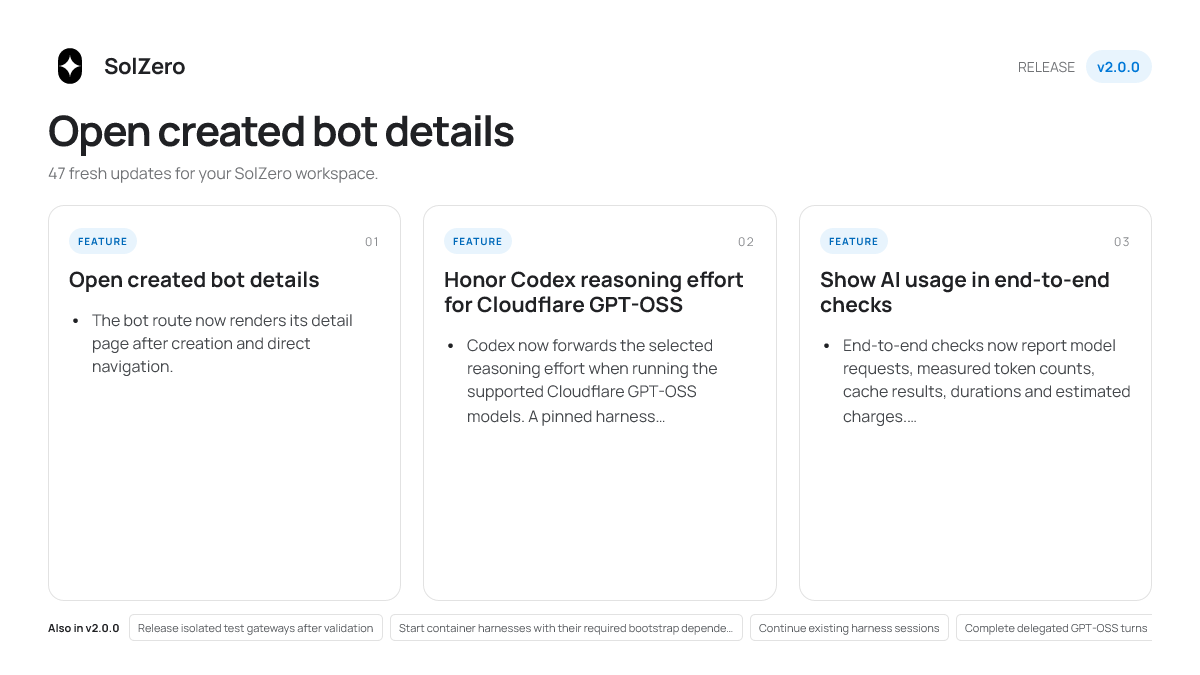
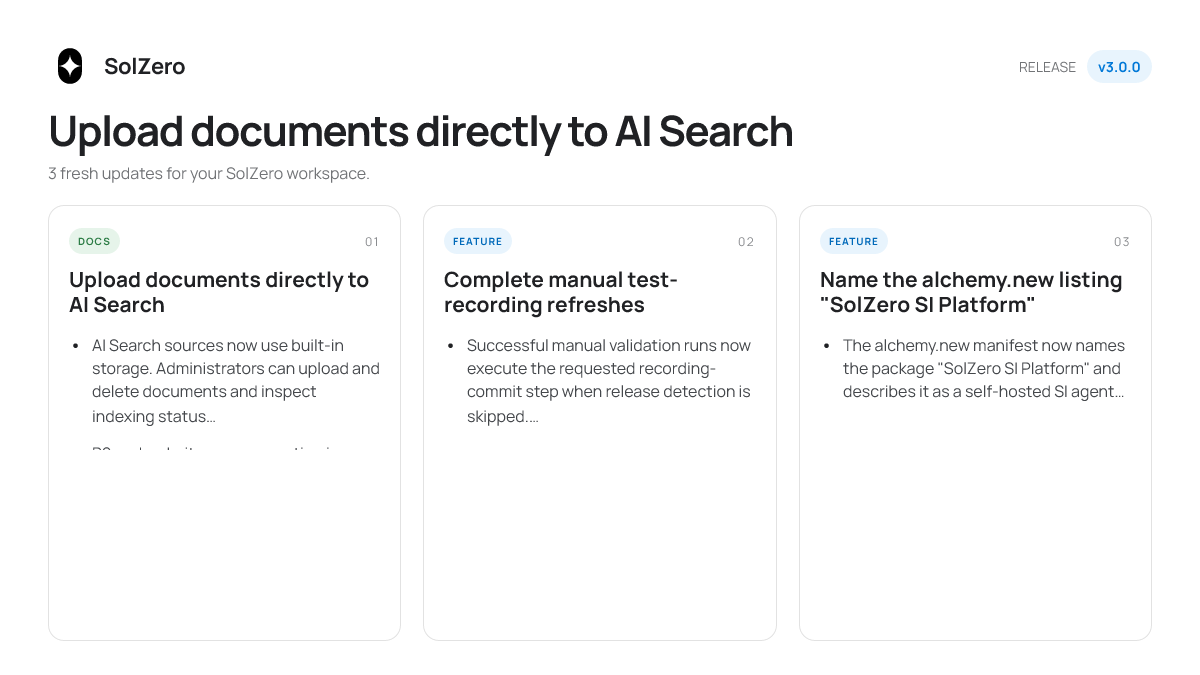
Version Packages

diff --git a/CHANGELOG.md b/CHANGELOG.md
@@ -1,3 +1,26 @@
+## solzero@3.0.0
+
+### Upload documents directly to AI Search
+
+AI Search sources now use built-in storage. Administrators can upload and delete documents and
+inspect indexing status without an external-storage service token. Workflows can ingest text and
+JSON with the new Upload to AI Search node.
+
+R2 and website source creation is removed. Existing source records and original content remain
+intact and are marked as requiring migration; these sources are unavailable for retrieval until
+operators copy their originals into new built-in sources and update their selections. Follow
+`docs/ai-search.md` before cutover. Deployment does not copy or delete legacy content. Workflow
+artifact and skill storage remain unchanged.
+
+### Complete manual test-recording refreshes
+
+Successful manual validation runs now execute the requested recording-commit step when release
+detection is skipped. Failed or cancelled tests cannot publish recordings.
+
+### Name the alchemy.new listing "SolZero SI Platform"
+
+The alchemy.new manifest now names the package "SolZero SI Platform" and describes it as a self-hosted SI agent platform. alchemy.new search results and the deploy page show the new name after this release.
+
 ## solzero@2.0.0
 
 ### Open created bot details
